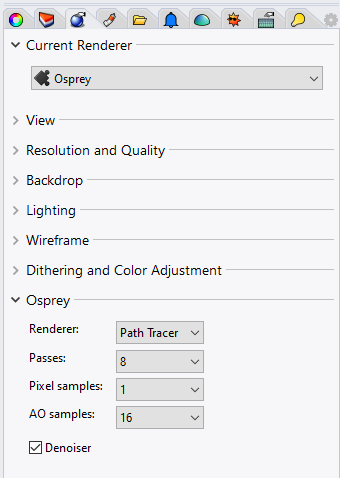
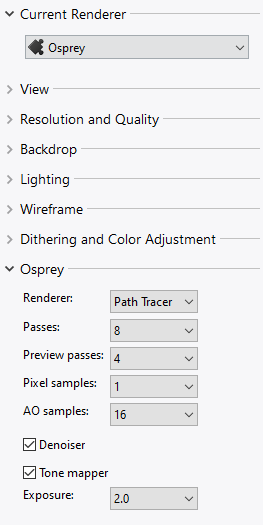
Documentation updates

Changed region(s): [[0.0, 0.0, 1.0, 1.0]]

diff --git a/README.md b/README.md
@@ -27,6 +27,15 @@ are some render settings in the "Osprey" section of the "Rendering" panel.
 
 ![Osprey Rhino 6 Rendering Panel](Images/Osprey_Rhino_6_Rendering_Panel.png)
 
+- Renderer - The name of the renderer to use.
+- Passes - The number of passes to render.
+- Preview passes - The number of low resolution preview passes to render before
+the main passes.
+- Pixel samples - The number of pixel samples.
+- AO samples - The number of ambient occlusion samples.
+- Denoiser - Enable denoiser post-processing.
+- Tone mapper - Enable tone mapping post-processing. If this is enabled the "Gamma" setting in "Dithering and Color Adjustment" should be set to 1.0.
+- Exposure - Exposure setting for the tone mapper.
 
 Features
 ========
